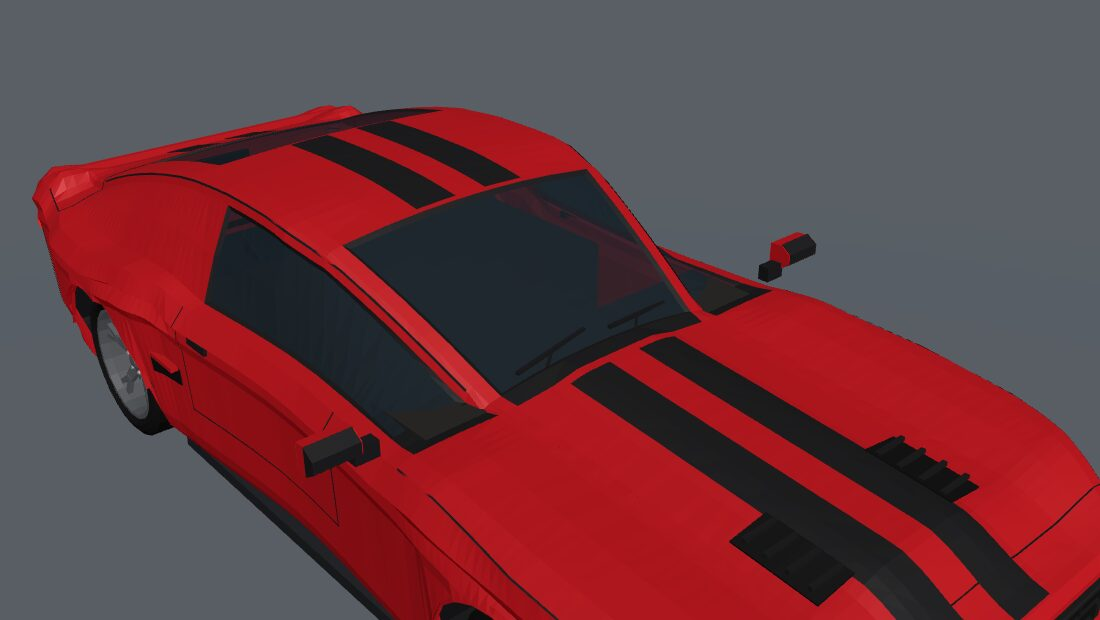
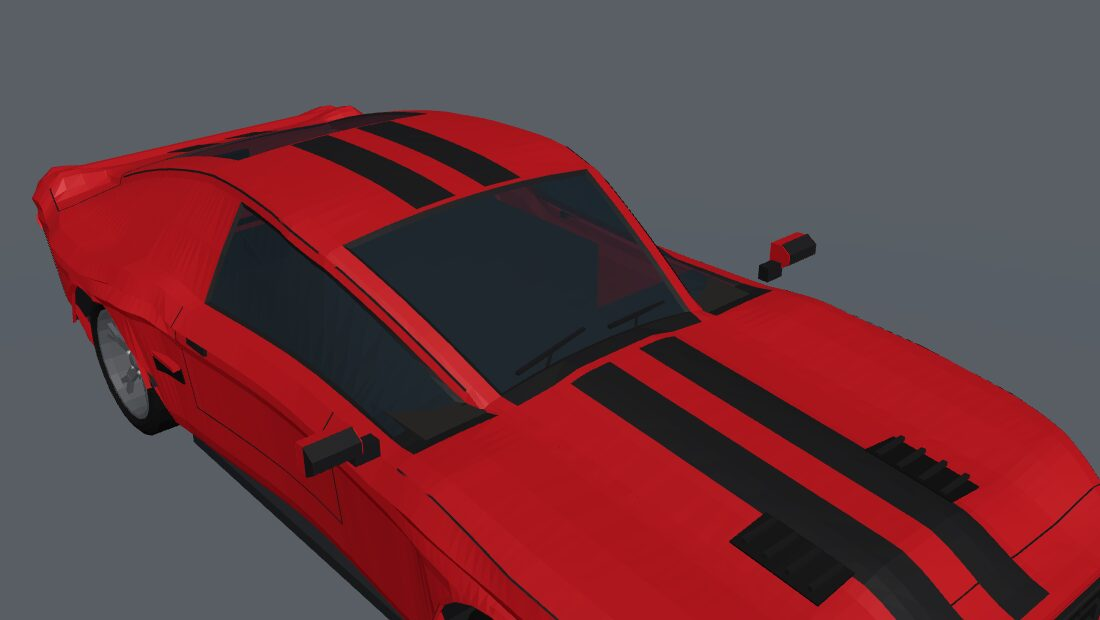
car-assets: muscle pass 3b shots and notes
Claude-Session: https://claude.ai/code/session_01M1HYJf9awSZHegqL4CVdzM

diff --git a/docs/integration/car-shapes-muscle.md b/docs/integration/car-shapes-muscle.md
@@ -27,8 +27,14 @@
   above the hood, one crisp mid-side character line; the corner tail lamps are now projected
   lenses swung 35° round onto the quarters (bottom strip = signal).
 - The 70s cars use 18 wheel segments (was 20) to pay for the extra loft stations.
-- Waiting on phase 3b (nose / tail rake and chin, hood / deck dz, roof-arc exponent, DLO
-  kink, arch shapes, smooth shading) for a touch-up pass.
+- **Phase 3b part 1 (b10e5e14):** rampart nose face leans forward 6° (shark nose), roof
+  narrows 12 % toward the fastback, lower body leans in 3 cm, projector bowls inside the head
+  lamps; ironside roof taper 8 % and 3 cm lower lean-in; bulwark 2 cm lower lean-in. A chin
+  undercut and a stronger lean (−12°) were tried on the rampart but left the face-plane kit
+  (lower mouth, fogs, splitter, tail panel, diffuser) floating, so they stay off until those
+  parts are re-placed on the raked face.
+- Still waiting on phase 3b part 2 (smooth shading, nose height / hood dz, roof-arc exponent)
+  for a touch-up pass.
 
 ## Second pass (after the lead's "be bold" and "no brand cues" notes)
 - **Proportions:** ironside hood +7 cm longer (cabin −0.42 m), roof −3 cm, coke-bottle hips
@@ -120,10 +126,10 @@ ribbed reflector panel, landau roof with chrome band, rubber side strip, chrome 
 ## Triangle counts (hero budget 22k, mid 7k)
 | car | full before | full now | mid before | mid now |
 |---|---|---|---|---|
-| ironside_440 | 19809 | 20318 | 5451 | 5822 |
-| rampart_50 | 19954 | 20910 | 5380 | 5910 |
-| bulwark_400 | 20579 | 20825 | 5621 | 6171 |
-| brigand_400 | 20986 | 21363 | 6042 | 6375 |
+| ironside_440 | 19809 | 20278 | 5451 | 5812 |
+| rampart_50 | 19954 | 21317 | 5380 | 5902 |
+| bulwark_400 | 20579 | 20825 | 5621 | 6151 |
+| brigand_400 | 20986 | 21463 | 6042 | 6340 |
 
 ## Checks
 `cargo fmt`, `cargo clippy -p car-assets --all-targets -- -D warnings`, `cargo test -p
@@ -150,13 +156,14 @@ per-car before (left) / after (right) sheets `docs/media/car-shapes/muscle/<car>
 - No opera windows on the brigand's C-pillar: side patches can't follow the greenhouse surface.
 
 ## Generator requests (sent to the lead 2026-10-27)
-1. Per-station side section: a waist pinch at the doors swelling over the arches in plan
+1. ~~Per-station side section~~ (done in phase 3: `plan_width`, `side_sculpt`): a waist pinch at the doors swelling over the arches in plan
    (coke-bottle line), e.g. `waist_pinch_m`.
-2. Forward-leaning nose: negative `nose_rake_deg` (to about −15°) for modern shark noses.
-3. Shaped lamp lens primitive: polygon outline extruded off the face that follows the
-   plan-round corners, with an inner bezel inset.
+2. ~~Forward-leaning nose~~ (done in phase 3b: `nose_face_rake_deg`).
+3. ~~Shaped lamp lens primitive~~ (done in phase 3: `lamp`, `Kit::proj_cluster`).
 4. Side patch that follows the greenhouse surface (opera windows, C-pillar badges).
-5. Lower-body tumblehome (boat-tail section) as its own knob.
+5. ~~Lower-body tumblehome~~ (done in phase 3b: `lower_lean_in_m`).
+6. New: a face-following variant of `Kit::front_box` / `rear_box` (or a y offset taking the
+   face rake and chin at z), so grilles, mouths and diffusers can sit on a raked face.
 
 ## Contract change requests
 None.
